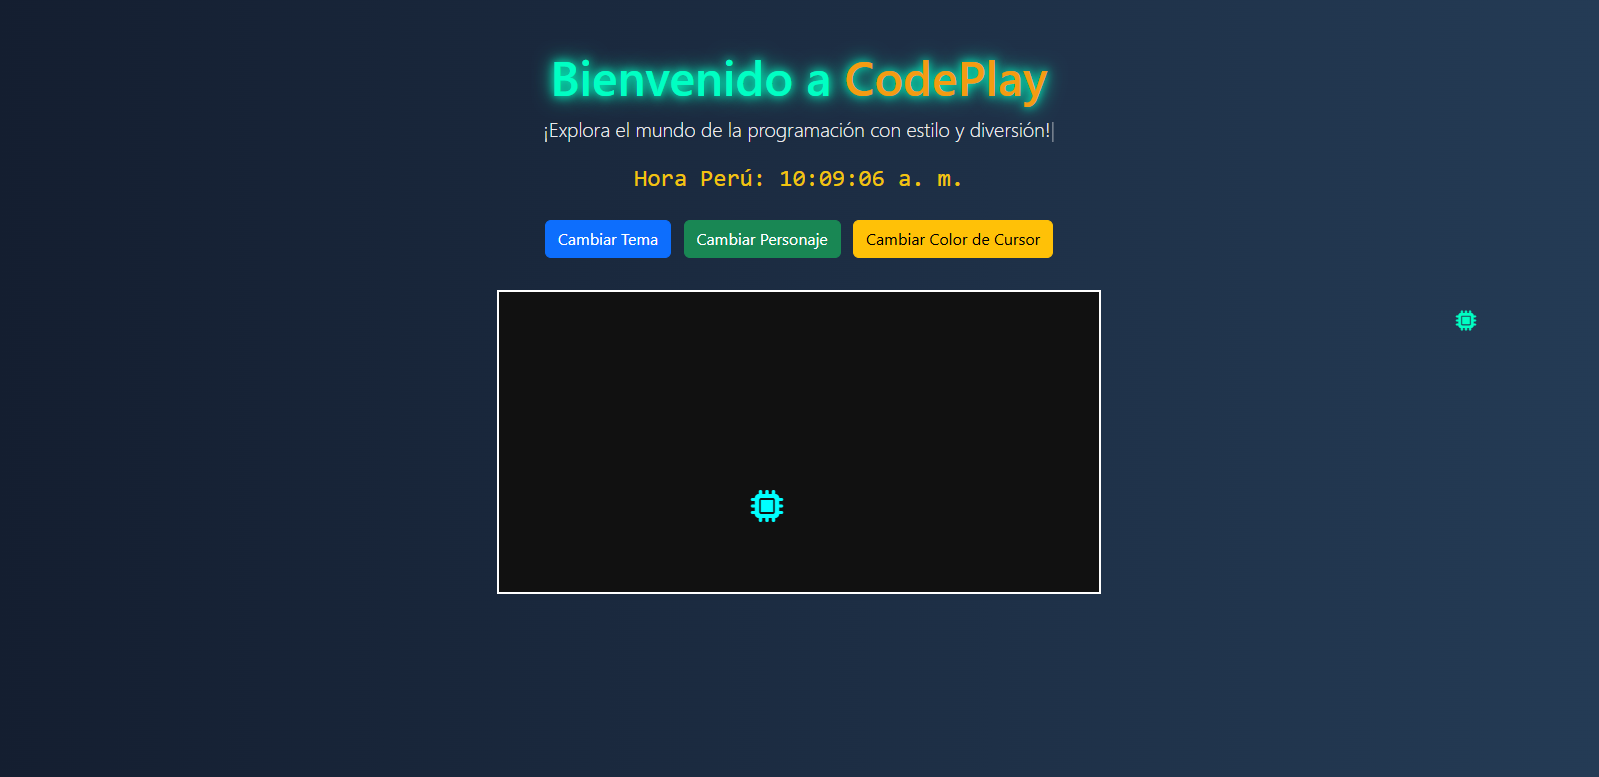
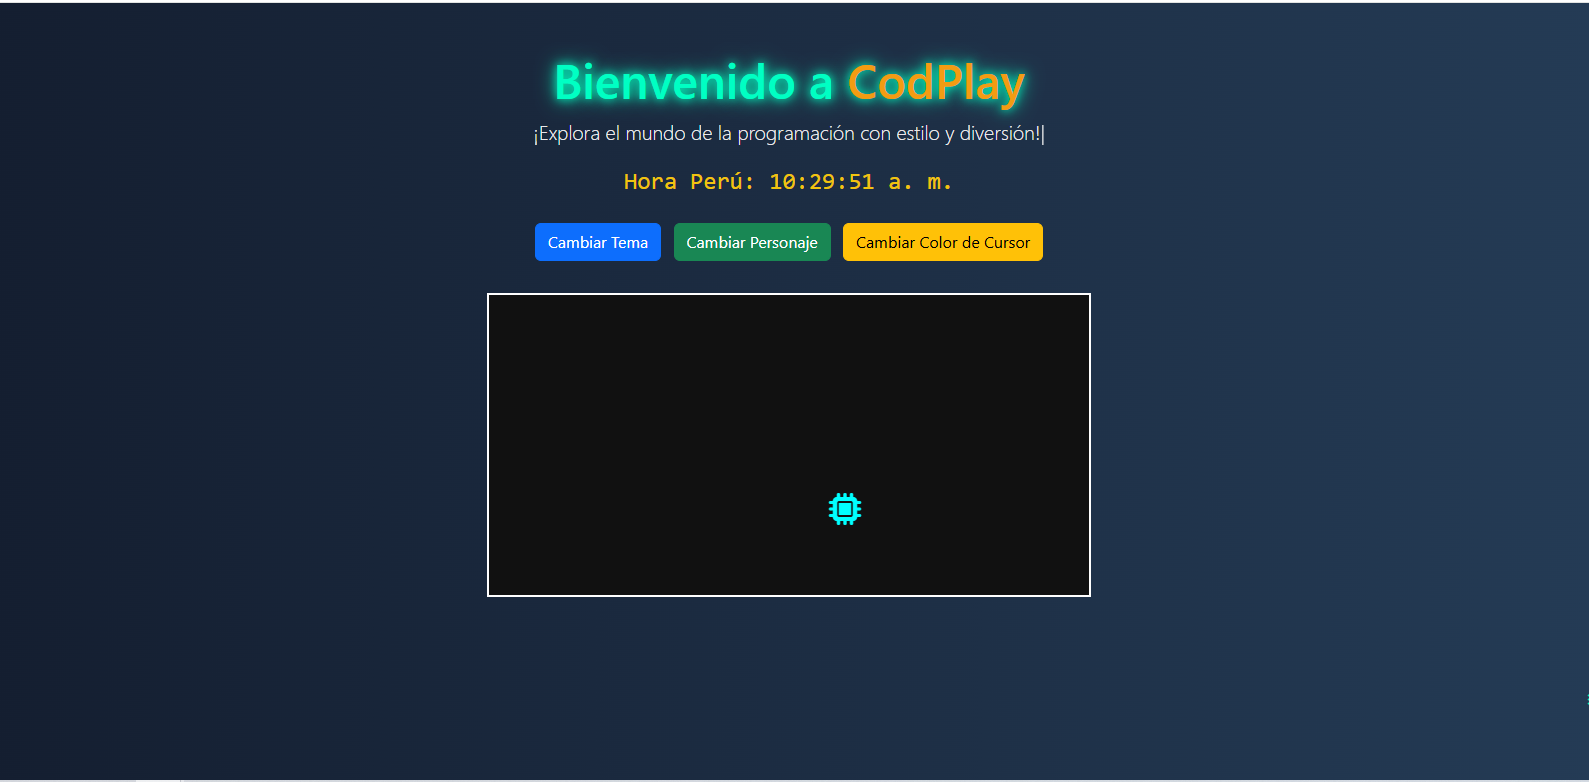
Ultimo commit

diff --git a/index.php b/index.php
@@ -12,7 +12,7 @@
 <body class="dark-theme">
   <div id="customCursor" class="fas fa-microchip cursor-color-1"></div>
   <div class="container text-center mt-5">
-    <h1 class="title-glow">Bienvenido a <span class="text-highlight">CodePlay</span></h1>
+    <h1 class="title-glow">Bienvenido a <span class="text-highlight">CodPlay</span></h1>
     <p class="lead typing-text">¡Explora el mundo de la programación con estilo y diversión!</p>
     <div id="time" class="time-clock"></div>
     <div class="mt-4">
